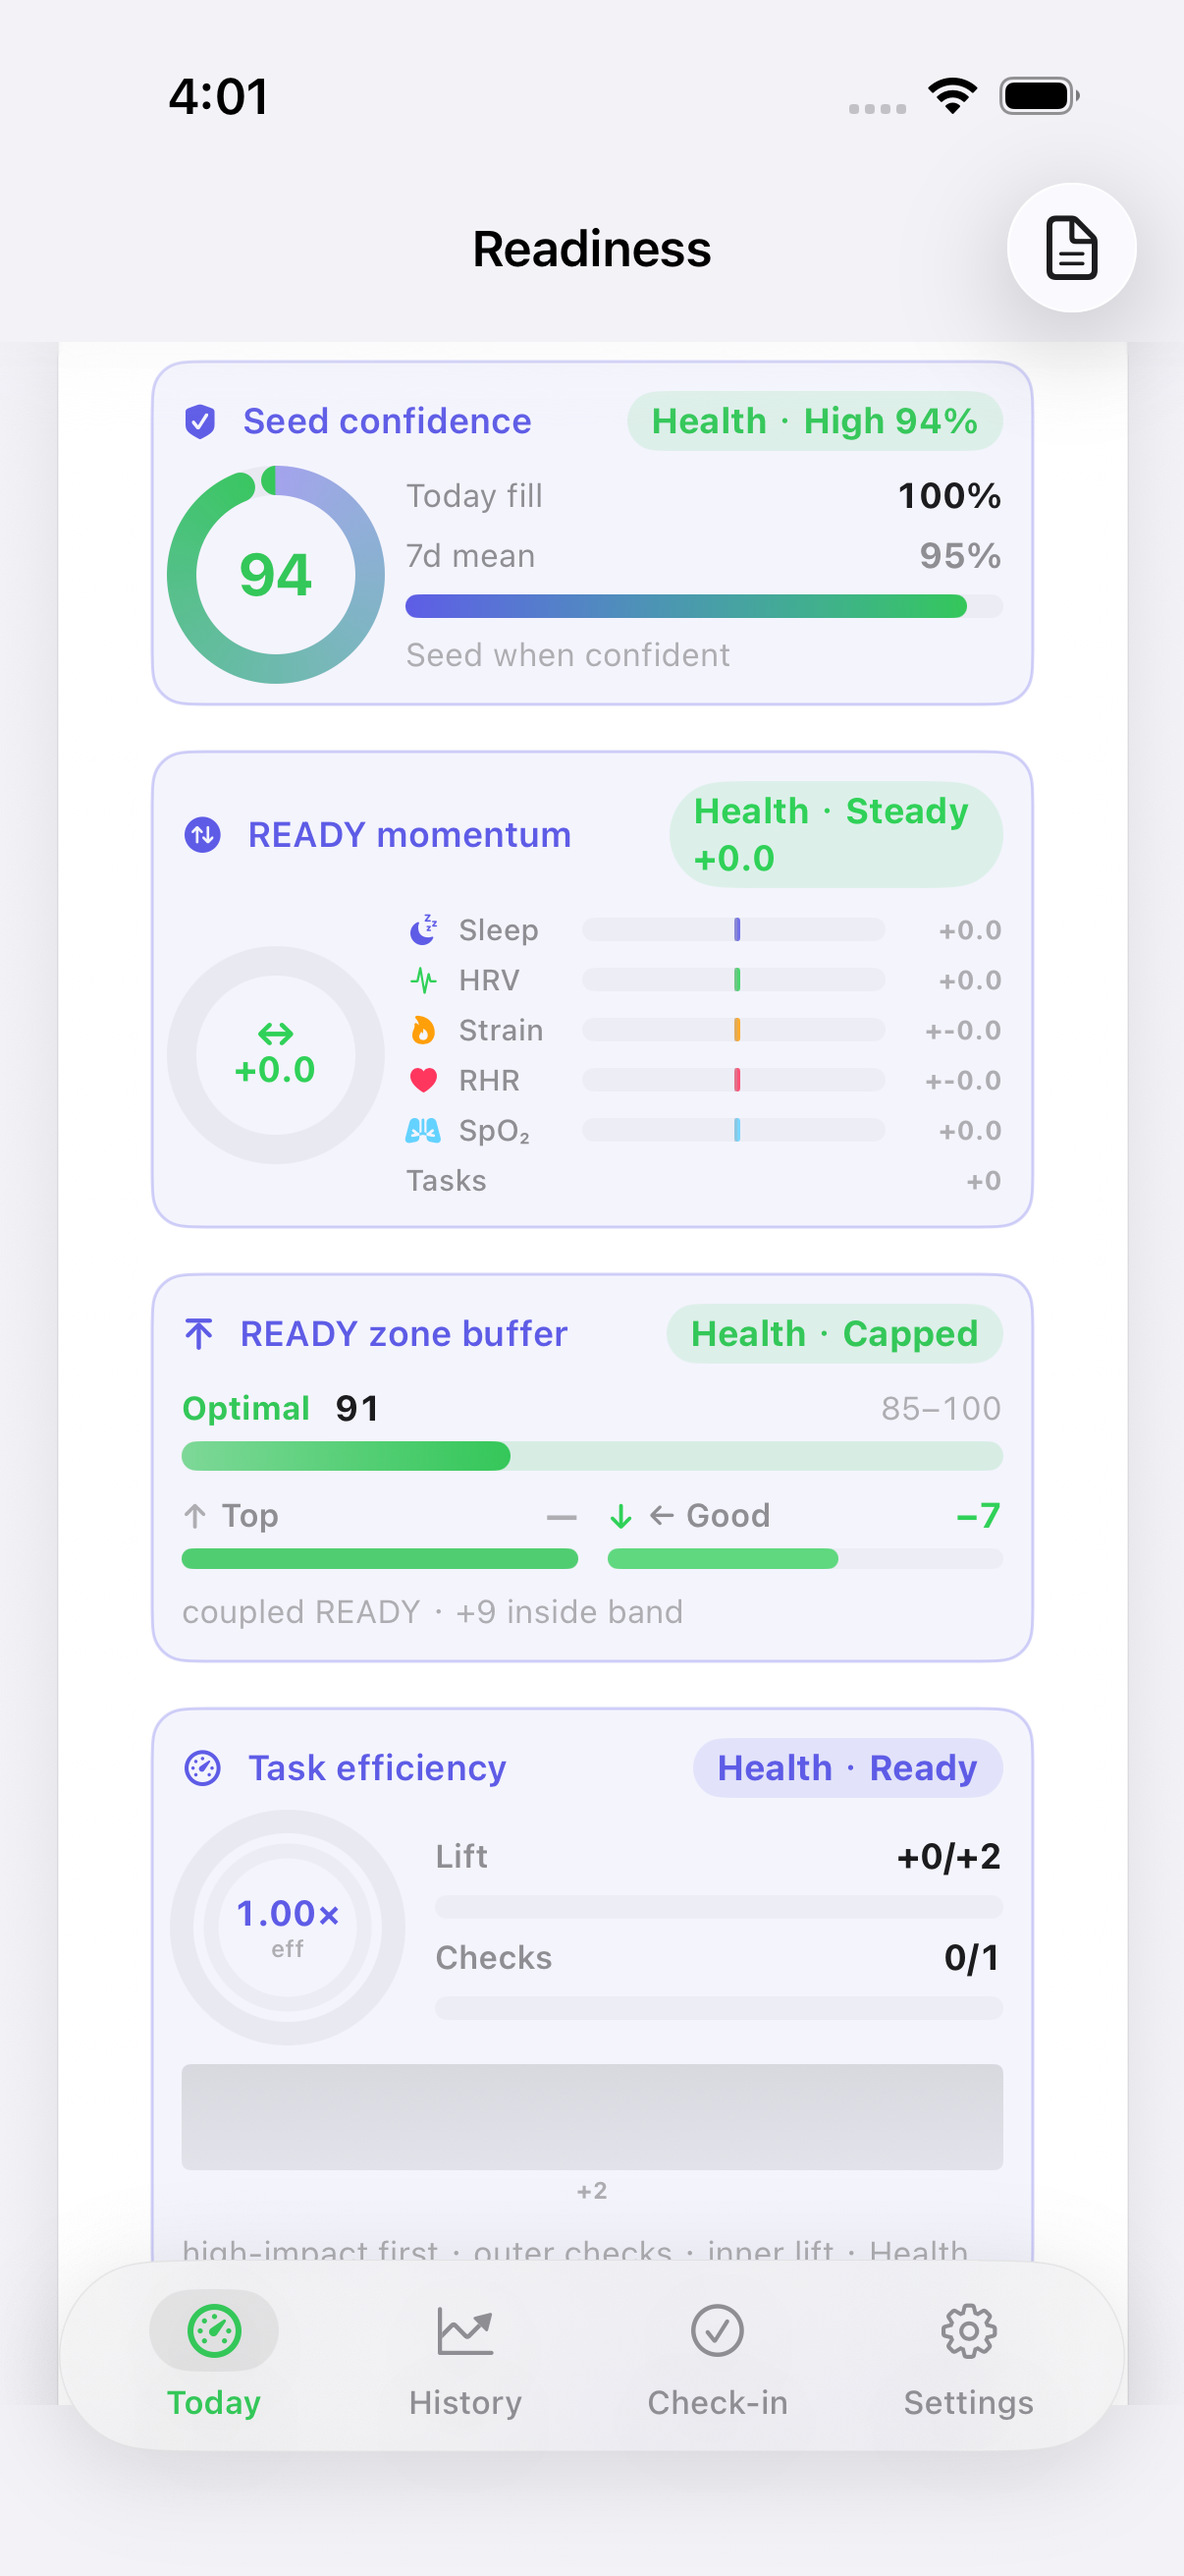
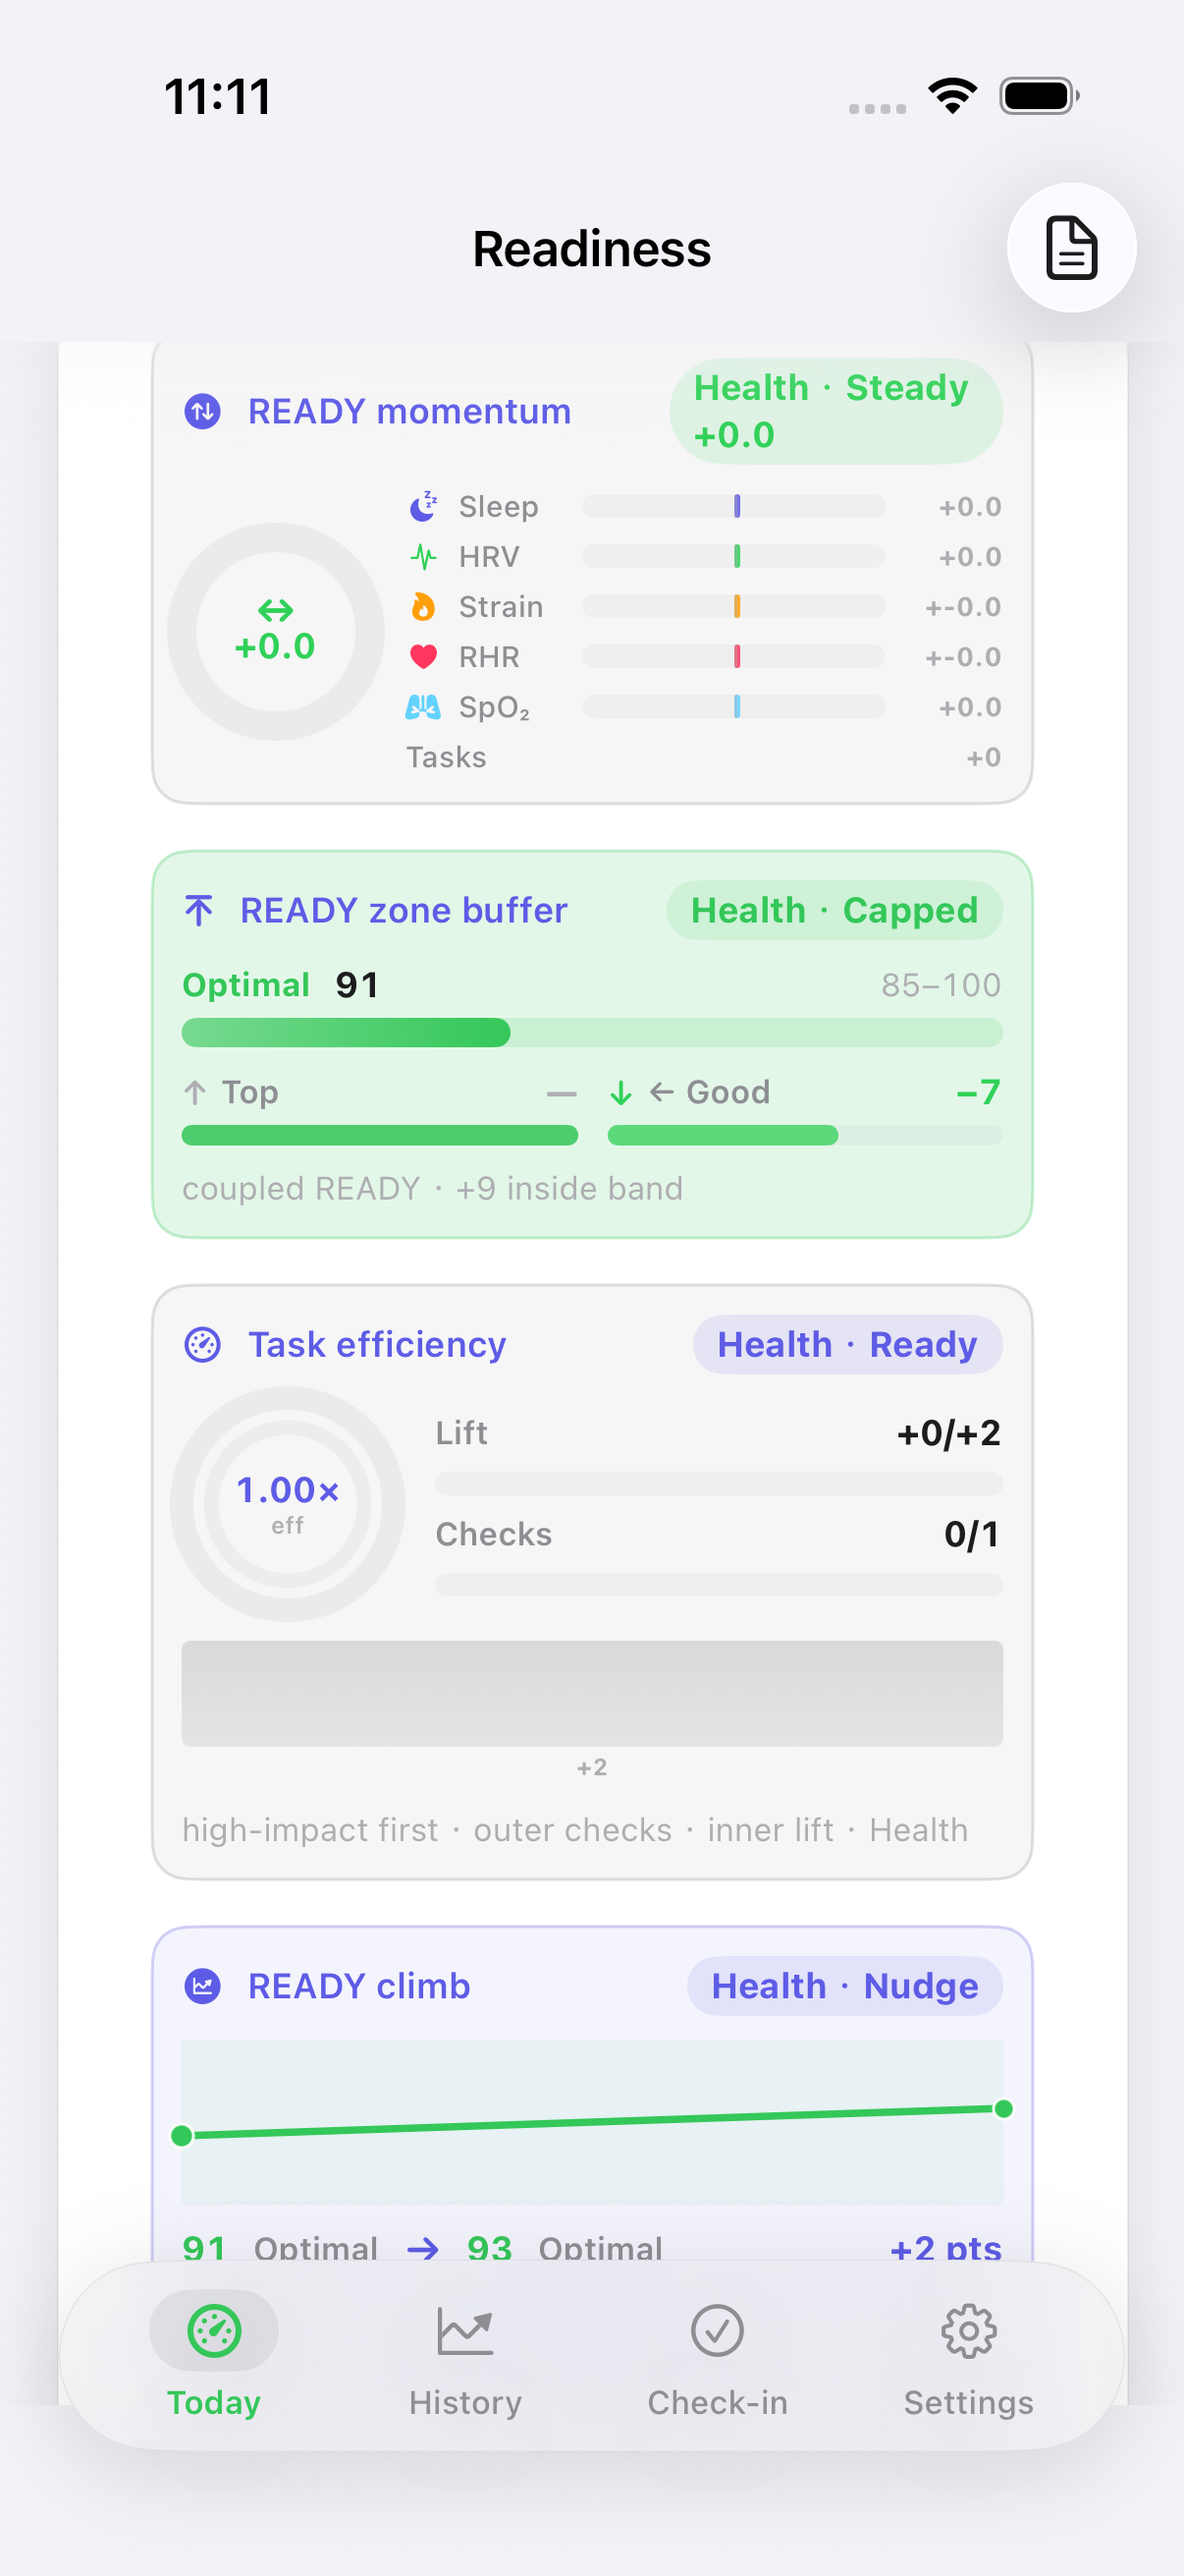
Honest #742: Simulator task efficiency (WHOOP wells)
Restyle the existing Simulator task efficiency (`sim.load.tasks.efficiency`, Honest #611) with WHOOP wells.

- Idle (Ready / checked==0): ghost/hairline 8%/28%
- Active (On track / Diffuse / Low yield): 14% fill + 28% hairline (good / caution / warning)
- Sharp (eff >= 1.25): 14% fill + 28% hairline (optimal); no new SurfaceID; no efficiency formula change

Proof: `testReadinessLoadSimulatorSurface` 770.997s, 0 failures; `.audit/verify-simulator-task-efficiency.png`
model=deepseek-flash (mechanical pattern-copy of #741 wells)

diff --git a/ReadinessTracker/Views/WhoopFeatures/ReadinessLoadSimulatorCard.swift b/ReadinessTracker/Views/WhoopFeatures/ReadinessLoadSimulatorCard.swift
@@ -3332,7 +3332,7 @@ struct ReadinessLoadSimulatorCard: View {
 
 
 
-    /// Honest #611: task efficiency dial — lift captured vs checks (Fitbit/GH richer sim graphics).
+    /// Honest #611 / #742: task efficiency dial — lift captured vs checks (WHOOP wells; Fitbit/GH richer sim graphics).
     @ViewBuilder
     private var taskEfficiencyDial: some View {
         if tasks.isEmpty {
@@ -3372,6 +3372,8 @@ struct ReadinessLoadSimulatorCard: View {
         } else {
             verb = "Low yield"; tone = RTColor.warning
         }
+        let effIsActive = checked != 0
+        let wellTone: Color = effIsActive ? tone : RTColor.secondaryText
         let effDisp = String(format: "%.2f×", eff)
         let ordered = tasks.sorted { $0.readyDelta > $1.readyDelta }
         return VStack(alignment: .leading, spacing: 8) {
@@ -3493,10 +3495,10 @@ struct ReadinessLoadSimulatorCard: View {
                 .foregroundStyle(RTColor.tertiaryText)
         }
         .padding(10)
-        .background(accent.opacity(0.07), in: RoundedRectangle(cornerRadius: 12, style: .continuous))
+        .background(wellTone.opacity(effIsActive ? 0.14 : 0.08), in: RoundedRectangle(cornerRadius: 12, style: .continuous))
         .overlay(
             RoundedRectangle(cornerRadius: 12, style: .continuous)
-                .stroke(accent.opacity(0.28), lineWidth: 1)
+                .stroke(wellTone.opacity(0.28), lineWidth: 1)
         )
         .accessibilityIdentifier(SurfaceID.readinessSimulatorTaskEfficiency)
         .accessibilityLabel("Task efficiency \(verb) \(effDisp)")

diff --git a/ReadinessTracker/Design/Theme.swift b/ReadinessTracker/Design/Theme.swift
@@ -406,7 +406,7 @@ enum SurfaceID {
     static let readinessSimulatorSeedConfidence = "sim.load.seed.confidence"  // Honest #605 / #739
     static let readinessSimulatorReadyMomentum = "sim.load.ready.momentum"  // Honest #607 / #740
     static let readinessSimulatorReadyBuffer = "sim.load.ready.buffer"  // Honest #609 / #741
-    static let readinessSimulatorTaskEfficiency = "sim.load.tasks.efficiency"  // Honest #611
+    static let readinessSimulatorTaskEfficiency = "sim.load.tasks.efficiency"  // Honest #611 / #742
     static let readinessSimulatorReadyClimb = "sim.load.ready.climb"  // Honest #613
     static let readinessSimulatorReadyHandoff = "sim.load.ready.handoff"  // Honest #615
     static let readinessSimulatorClimbPace = "sim.load.ready.climb.pace"  // Honest #617

diff --git a/ReadinessTrackerUITests/SurfacesUITests.swift b/ReadinessTrackerUITests/SurfacesUITests.swift
@@ -10811,7 +10811,7 @@ final class SurfacesUITests: XCTestCase {
         saveShot("verify-simulator-ready-buffer.png")
 
 
-        // Honest #611: task efficiency
+        // Honest #611 / #742: task efficiency (WHOOP wells)
         let taskEff = app.descendants(matching: .any)["sim.load.tasks.efficiency"].firstMatch
         XCTAssertTrue(taskEff.waitForExistence(timeout: 5)
                       || app.descendants(matching: .any)["sim.load.ready.buffer"].firstMatch.exists

diff --git a/.audit/decision-log-2026-11-04.md b/.audit/decision-log-2026-11-04.md
@@ -288,3 +288,9 @@
 
 | 22:42 HKT | #741 Simulator READY zone buffer | prove | UITest suite green /tmp/RT-DD741 (771.987s, 0 failures; observer 785.497s); model=deepseek-flash |
 | 22:43 HKT | #741 Simulator READY zone buffer | land | proof PNG + receipt; SID sim.load.ready.buffer; PR squash next; model=deepseek-flash |
+
+| 22:59 HKT | Honest #742 Simulator task efficiency | model=deepseek-flash | restyle existing sim.load.tasks.efficiency after READY zone buffer #741; WHOOP ghost/active/Sharp wells; mechanical pattern-copy of #741 wells applied locally (no separate model iterate needed) | mid-ship |
+| 22:59 HKT | Honest #742 Simulator task efficiency | prove | started UITest /tmp/RT-DD742; model=deepseek-flash | mid-ship |
+
+| 23:17 HKT | #742 Simulator task efficiency | prove | UITest suite green /tmp/RT-DD742 (770.997s, 0 failures; xcresult wall 784.557s); model=deepseek-flash |
+| 23:18 HKT | #742 Simulator task efficiency | land | proof PNG + receipt; SID sim.load.tasks.efficiency; PR squash next; model=deepseek-flash |

diff --git a/.audit/sim-task-efficiency.md b/.audit/sim-task-efficiency.md
@@ -1,5 +1,6 @@
-# Honest #611: Simulator task efficiency
+# Honest #611 / #742: Simulator task efficiency (WHOOP wells)
 
 Lift captured vs checks (Sharp/On track/Diffuse/Low yield).
+Idle (Ready / checked==0) = ghost/hairline 8%/28%; active (On track / Diffuse / Low yield) = 14% fill + 28% hairline (good / caution / warning); Sharp (eff >= 1.25) = 14% fill + 28% hairline (optimal).
 SurfaceID: `sim.load.tasks.efficiency`
 Proof: `.audit/verify-simulator-task-efficiency.png`

diff --git a/.cursor/skills/verify-readiness-tracker/features/sim-task-efficiency.md b/.cursor/skills/verify-readiness-tracker/features/sim-task-efficiency.md
@@ -1,5 +1,6 @@
-# Honest #611: Simulator task efficiency
+# Honest #611 / #742: Simulator task efficiency (WHOOP wells)
 
 Lift captured vs checks (Sharp/On track/Diffuse/Low yield).
+Idle (Ready / checked==0) = ghost/hairline 8%/28%; active (On track / Diffuse / Low yield) = 14% fill + 28% hairline (good / caution / warning); Sharp (eff >= 1.25) = 14% fill + 28% hairline (optimal).
 SurfaceID: `sim.load.tasks.efficiency`
 Proof: `.audit/verify-simulator-task-efficiency.png`
